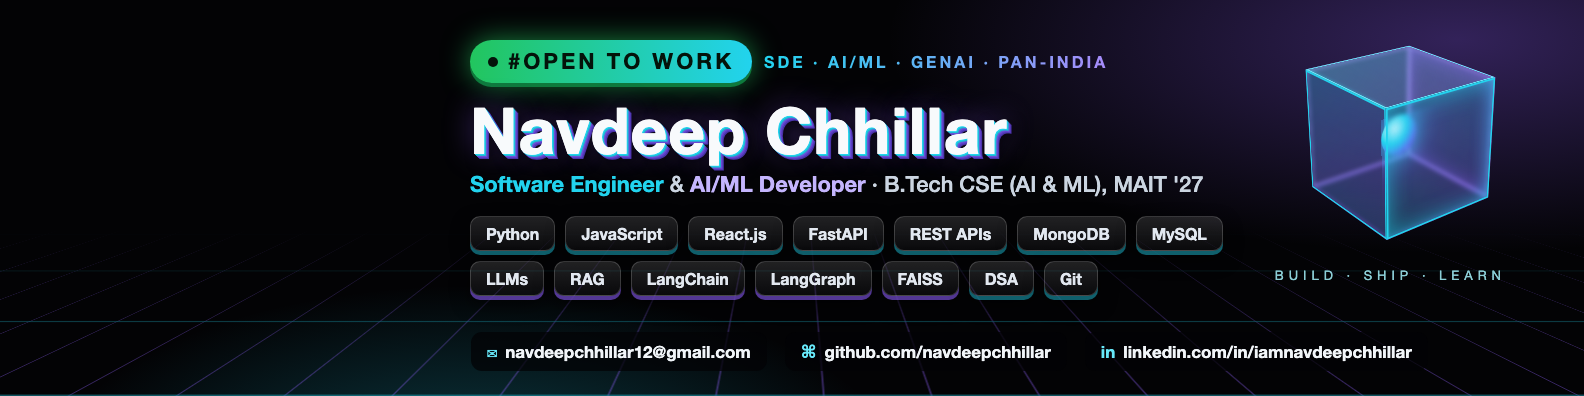
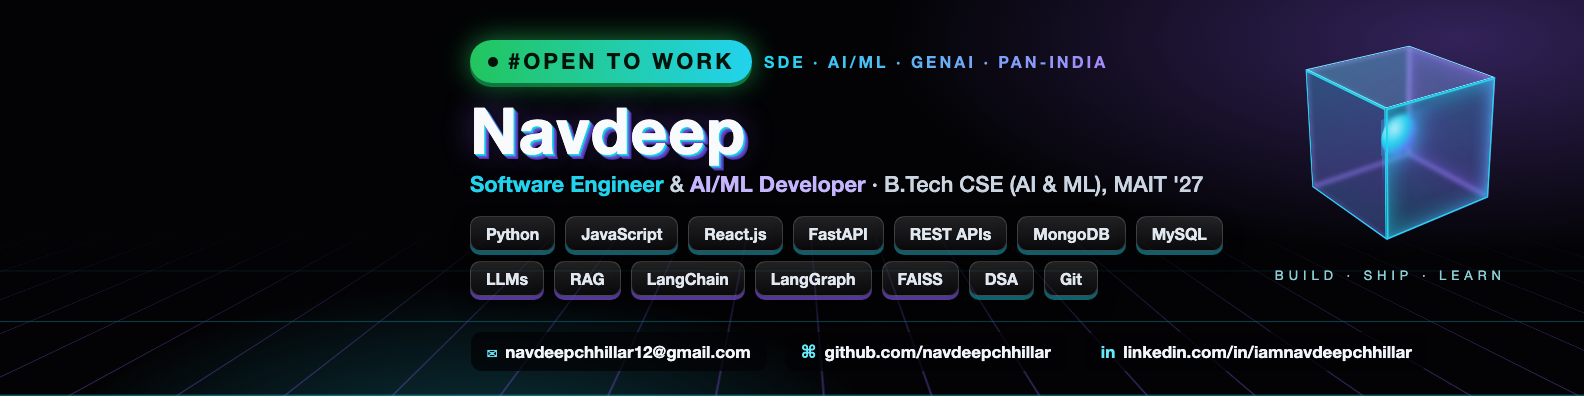
Use first name only (Navdeep) across the site and resume

Changed region(s): [[0.464, 0.2727, 0.6496, 0.4242]]

diff --git a/index.html b/index.html
@@ -3,10 +3,10 @@
 <head>
 <meta charset="utf-8">
 <meta name="viewport" content="width=device-width,initial-scale=1">
-<title>Navdeep Chhillar — Software Engineer & AI/ML Developer</title>
-<meta name="description" content="Navdeep Chhillar — B.Tech CSE (AI & ML) at MAIT, Delhi. Software Engineer & AI/ML Developer: Python, React, FastAPI, LangChain, LangGraph, RAG, LLM apps, computer vision. Open to SDE, AI/ML and GenAI roles across India. Email navdeepchhillar12@gmail.com.">
-<meta name="keywords" content="Navdeep Chhillar, Software Engineer, AI Engineer, ML Engineer, Python, React, FastAPI, LangChain, LangGraph, RAG, LLM, MAIT, Delhi">
-<meta property="og:title" content="Navdeep Chhillar — Software Engineer & AI/ML Developer">
+<title>Navdeep — Software Engineer & AI/ML Developer</title>
+<meta name="description" content="Navdeep — B.Tech CSE (AI & ML) at MAIT, Delhi. Software Engineer & AI/ML Developer: Python, React, FastAPI, LangChain, LangGraph, RAG, LLM apps, computer vision. Open to SDE, AI/ML and GenAI roles across India. Email navdeepchhillar12@gmail.com.">
+<meta name="keywords" content="Navdeep, Software Engineer, AI Engineer, ML Engineer, Python, React, FastAPI, LangChain, LangGraph, RAG, LLM, MAIT, Delhi">
+<meta property="og:title" content="Navdeep — Software Engineer & AI/ML Developer">
 <meta property="og:description" content="Full-stack & LLM apps · Python · React · FastAPI · LangGraph · RAG · Open to work">
 <meta property="og:image" content="https://navdeepchhillar.vercel.app/og-card.jpg">
 <meta property="og:url" content="https://navdeepchhillar.vercel.app/">
@@ -15,7 +15,7 @@
 <link rel="canonical" href="https://navdeepchhillar.vercel.app/">
 <link rel="preconnect" href="https://fonts.googleapis.com">
 <link href="https://fonts.googleapis.com/css2?family=Space+Grotesk:wght@500;600;700&family=Inter:wght@400;500;600;700&display=swap" rel="stylesheet">
-<script type="application/ld+json">{"@context":"https://schema.org","@type":"Person","name":"Navdeep Chhillar","jobTitle":"Software Engineer & AI/ML Developer","email":"mailto:navdeepchhillar12@gmail.com","telephone":"+91-7982447979","address":{"@type":"PostalAddress","addressLocality":"Delhi","addressCountry":"IN"},"alumniOf":"Maharaja Agrasen Institute of Technology","sameAs":["https://www.linkedin.com/in/iamnavdeepchhillar","https://github.com/navdeepchhillar"],"knowsAbout":["Python","React","FastAPI","LangChain","LangGraph","RAG","LLMs","Machine Learning","Computer Vision"]}</script>
+<script type="application/ld+json">{"@context":"https://schema.org","@type":"Person","name":"Navdeep","jobTitle":"Software Engineer & AI/ML Developer","email":"mailto:navdeepchhillar12@gmail.com","telephone":"+91-7982447979","address":{"@type":"PostalAddress","addressLocality":"Delhi","addressCountry":"IN"},"alumniOf":"Maharaja Agrasen Institute of Technology","sameAs":["https://www.linkedin.com/in/iamnavdeepchhillar","https://github.com/navdeepchhillar"],"knowsAbout":["Python","React","FastAPI","LangChain","LangGraph","RAG","LLMs","Machine Learning","Computer Vision"]}</script>
 <style>
   :root{--bg:#050b1f;--bg2:#0a1636;--card:rgba(20,40,90,.35);--line:rgba(96,165,250,.18);--ink:#e8f0ff;--muted:#93a7c9;
         --blue:#3b82f6;--elec:#38bdf8;--ice:#a5d8ff;--glow:0 0 30px rgba(56,189,248,.35)}
@@ -142,14 +142,14 @@
 <nav><div class="wrap">
   <a class="logo" href="#top">Navdeep<span>.</span></a>
   <div class="links"><a href="#about">About</a><a href="#skills">Skills</a><a href="#projects">Projects</a><a href="#experience">Experience</a><a href="#contact">Contact</a></div>
-  <a class="btn sm p" href="Navdeep_Chhillar_Resume.pdf" download>Resume ↓</a>
+  <a class="btn sm p" href="Navdeep_Resume.pdf" download>Resume ↓</a>
 </div></nav>
 
 <main>
 <header class="hero wrap" id="top"><div class="hero-grid">
   <div>
     <span class="otw"><i></i>#OPEN TO WORK · PAN-INDIA · REMOTE</span>
-    <h1>Navdeep<br>Chhillar</h1>
+    <h1>Navdeep</h1>
     <div class="roles"><b>Software Engineer</b> &amp; <em>AI/ML Developer</em> — I build <span class="typed" id="typed">full-stack apps</span></div>
     <p class="lead">B.Tech CSE (AI &amp; ML) at MAIT, Delhi · CGPA 8.04. I ship React frontends, Python/FastAPI backends and RAG / multi-agent LLM pipelines end to end.</p>
     <div class="quick">
@@ -167,8 +167,8 @@
   <div class="photo" id="photo">
     <div class="glow"></div>
     <div class="pcard" id="pcard">
-      <div class="img"><img src="navdeep.jpg" alt="Navdeep Chhillar"></div><div class="shine"></div>
-      <div class="ptag"><span><b>Navdeep Chhillar</b><small>SDE · AI/ML · MAIT '27</small></span><span class="live"><i></i>#OPENTOWORK</span></div>
+      <div class="img"><img src="navdeep.jpg" alt="Navdeep"></div><div class="shine"></div>
+      <div class="ptag"><span><b>Navdeep</b><small>SDE · AI/ML · MAIT '27</small></span><span class="live"><i></i>#OPENTOWORK</span></div>
     </div>
     <div class="float f1"><span>⚡</span> Python · FastAPI</div>
     <div class="float f2"><b>8.04</b>CGPA</div>
@@ -335,13 +335,13 @@
     <a class="card crow" href="tel:+917982447979"><span class="ci">☏</span><span><small>Phone</small><b>+91 79824 47979</b></span></a>
     <a class="card crow" href="https://www.linkedin.com/in/iamnavdeepchhillar" target="_blank" rel="noopener"><span class="ci">in</span><span><small>LinkedIn</small><b>/in/iamnavdeepchhillar</b></span></a>
     <a class="card crow" href="https://github.com/navdeepchhillar" target="_blank" rel="noopener"><span class="ci">⌘</span><span><small>GitHub</small><b>github.com/navdeepchhillar</b></span></a>
-    <a class="card crow" href="Navdeep_Chhillar_Resume.pdf" download><span class="ci">⬇</span><span><small>Resume</small><b>Download PDF</b></span></a>
+    <a class="card crow" href="Navdeep_Resume.pdf" download><span class="ci">⬇</span><span><small>Resume</small><b>Download PDF</b></span></a>
     <div class="card crow"><span class="ci">📍</span><span><small>Location</small><b>Delhi, India · open to pan-India roles</b></span></div>
   </div>
 </div></section>
 </main>
 
-<footer>© 2026 Navdeep Chhillar · Software Engineer &amp; AI/ML Developer</footer>
+<footer>© 2026 Navdeep · Software Engineer &amp; AI/ML Developer</footer>
 
 <script src="https://cdnjs.cloudflare.com/ajax/libs/three.js/r128/three.min.js"></script>
 <script>

diff --git a/resume.html b/resume.html
@@ -1,8 +1,8 @@
 <!doctype html>
 <html lang="en"><head><meta charset="utf-8"><meta name="viewport" content="width=device-width,initial-scale=1">
-<title>Navdeep Chhillar — Resume (Software Engineer & AI/ML Developer)</title>
-<meta name="description" content="One-page ATS-friendly resume of Navdeep Chhillar — B.Tech CSE (AI & ML), MAIT '27. Python, React, FastAPI, LangChain, LangGraph, RAG, LLM apps. Ex-ML Intern at Maruti Suzuki.">
-<meta property="og:title" content="Navdeep Chhillar — Resume (ATS-friendly, 1 page)">
+<title>Navdeep — Resume (Software Engineer & AI/ML Developer)</title>
+<meta name="description" content="One-page ATS-friendly resume of Navdeep — B.Tech CSE (AI & ML), MAIT '27. Python, React, FastAPI, LangChain, LangGraph, RAG, LLM apps. Ex-ML Intern at Maruti Suzuki.">
+<meta property="og:title" content="Navdeep — Resume (ATS-friendly, 1 page)">
 <meta property="og:description" content="Software Engineer & AI/ML Developer · Python · React · FastAPI · LangGraph · RAG · Ex-ML Intern @ Maruti Suzuki · Open to work">
 <meta property="og:image" content="https://navdeepchhillar.vercel.app/resume-card.jpg">
 <meta property="og:url" content="https://navdeepchhillar.vercel.app/resume">
@@ -11,6 +11,6 @@
 header{display:flex;flex-wrap:wrap;gap:10px;align-items:center;justify-content:space-between;padding:14px 20px;border-bottom:1px solid rgba(96,165,250,.2)}
 a{color:#38bdf8;text-decoration:none;font-weight:600}.b{padding:9px 16px;border-radius:10px;background:linear-gradient(90deg,#3b82f6,#38bdf8);color:#04102a}
 object{display:block;width:100%;height:calc(100vh - 66px);border:0;background:#0a1636}</style></head>
-<body><header><a href="/">← Navdeep Chhillar · Portfolio</a><a class="b" href="Navdeep_Chhillar_Resume.pdf" download>Download PDF ↓</a></header>
-<object data="Navdeep_Chhillar_Resume.pdf" type="application/pdf"><p style="padding:20px">Your browser can't show the PDF here. <a href="Navdeep_Chhillar_Resume.pdf">Open the resume (PDF)</a>.</p></object>
+<body><header><a href="/">← Navdeep · Portfolio</a><a class="b" href="Navdeep_Resume.pdf" download>Download PDF ↓</a></header>
+<object data="Navdeep_Resume.pdf" type="application/pdf"><p style="padding:20px">Your browser can't show the PDF here. <a href="Navdeep_Resume.pdf">Open the resume (PDF)</a>.</p></object>
 </body></html>

diff --git a/README.md b/README.md
@@ -1,10 +1,10 @@
-# Navdeep Chhillar — 3D Portfolio
+# Navdeep — 3D Portfolio
 
 A single-page 3D portfolio (Three.js) in a black / cyan / violet theme.
 
 Files:
 - `index.html` — the whole site (HTML + CSS + JS; loads Three.js and Google Fonts from CDNs)
-- `Navdeep_Chhillar_Resume.pdf` — the resume behind the "Resume" buttons
+- `Navdeep_Resume.pdf` — the resume behind the "Resume" buttons
 - `og-banner.png` — preview image when the link is shared
 
 ## Put it online (free, ~2 minutes)
